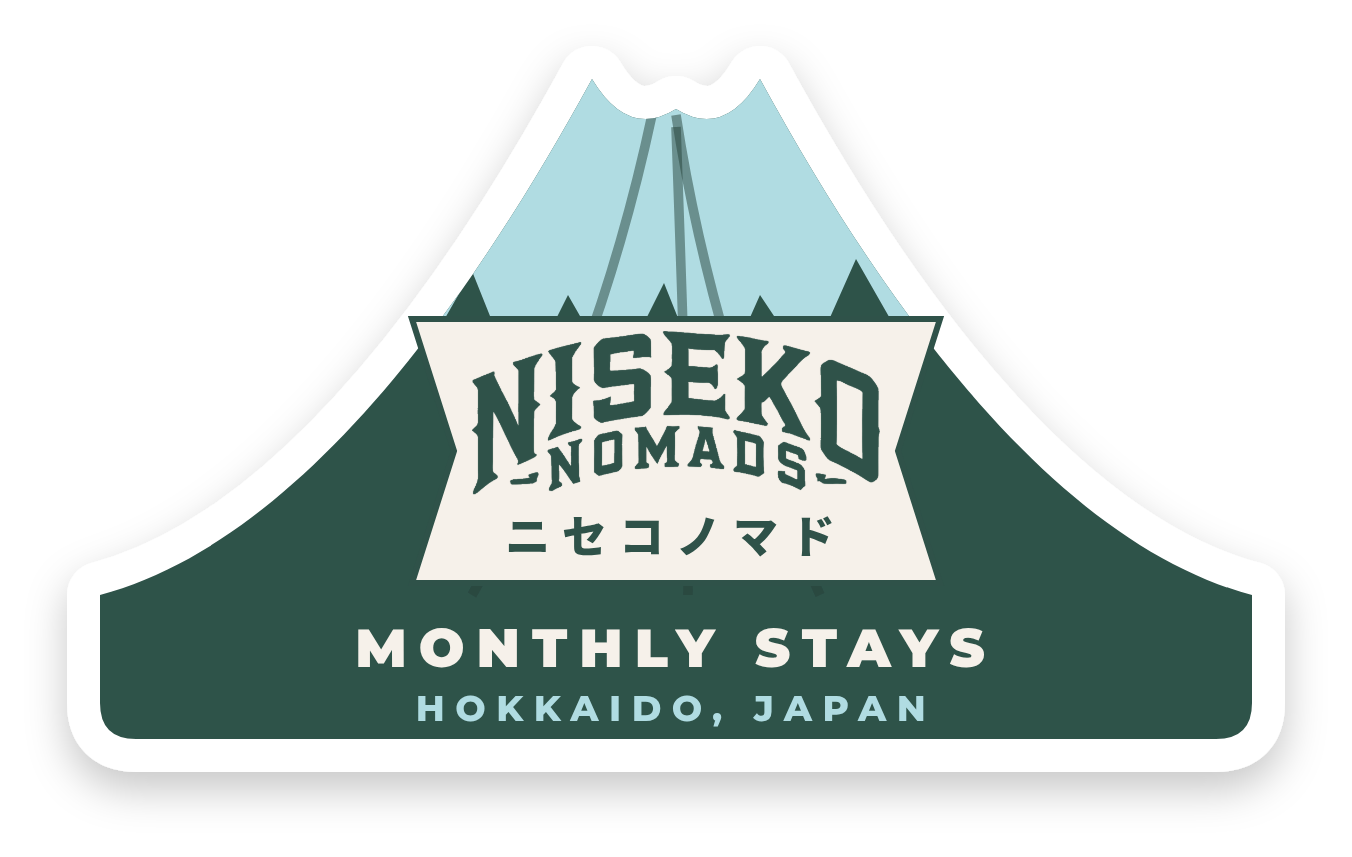
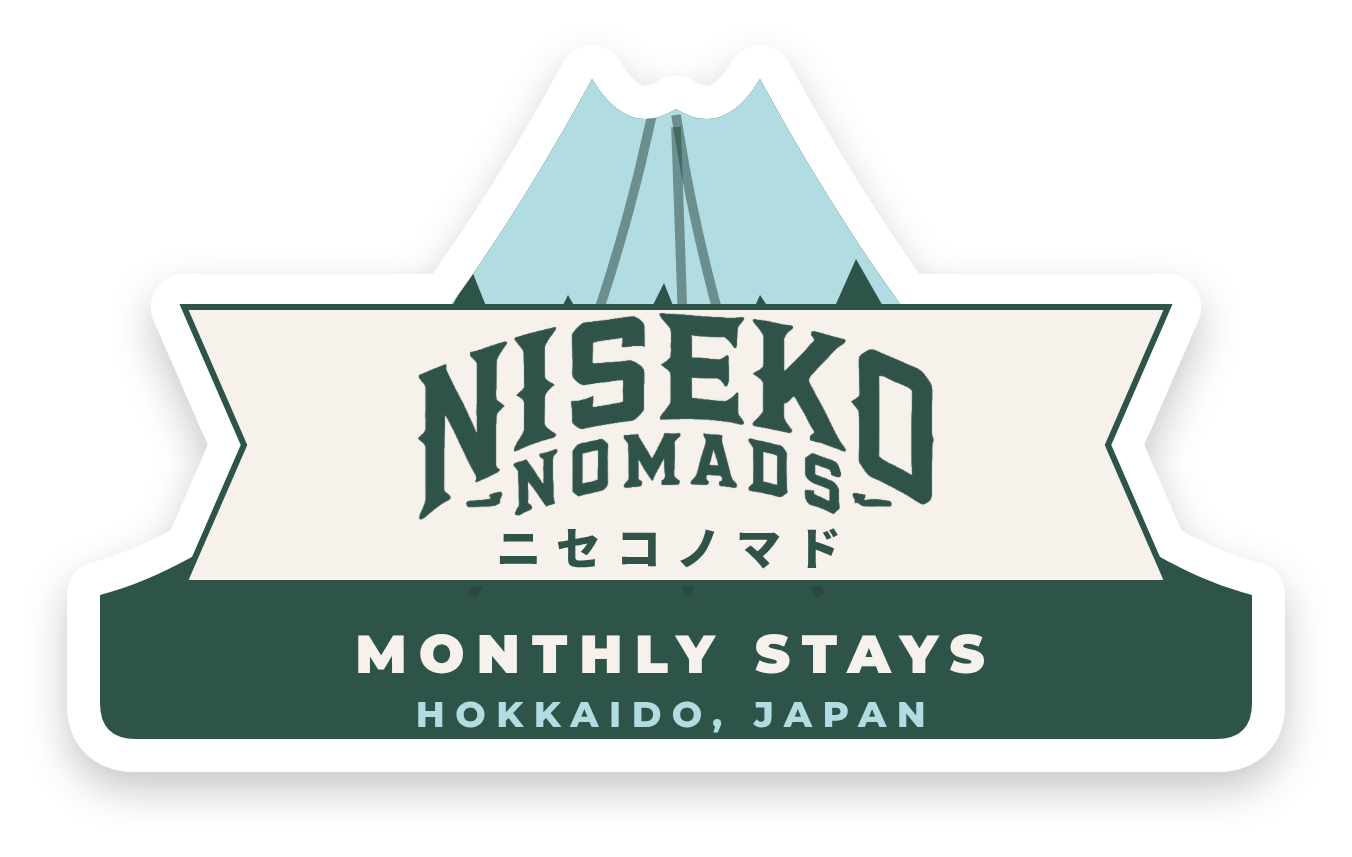
Widen the ribbon so it overhangs the mountain silhouette

Changed region(s): [[0.0932, 0.3337, 0.9009, 0.6978], [0.2485, 0.7281, 0.5281, 0.8495], [0.5592, 0.7281, 0.7456, 0.8495]]

diff --git a/index.html b/index.html
@@ -134,7 +134,7 @@ const GROUPS = [
     ['10-cone-die-cut-katakana','Cone die-cut · katakana','マンスリーステイ under the banner'],
     ['12-cone-die-cut-monthly','Cone die-cut · monthly accommodation','Katakana version, MONTHLY ACCOMMODATION'],
     ['14-cone-die-cut-month-long','Cone die-cut · month long','Katakana version, MONTH LONG ACCOMMODATION'],
-    ['19-cone-thin-band','Cone die-cut · thin band','Shallow base, ニセコノマド inside the banner'],
+    ['19-cone-thin-band','Cone die-cut · thin band','Wide ribbon overhanging the mountain, shallow base'],
   ]],
   ['Patches, strips and tags', 'Rectangular shells — the ones that carry a slogan', [
     ['06-stacked-crest','Stacked crest','75 × 65 mm · framed shell, message band swaps'],
